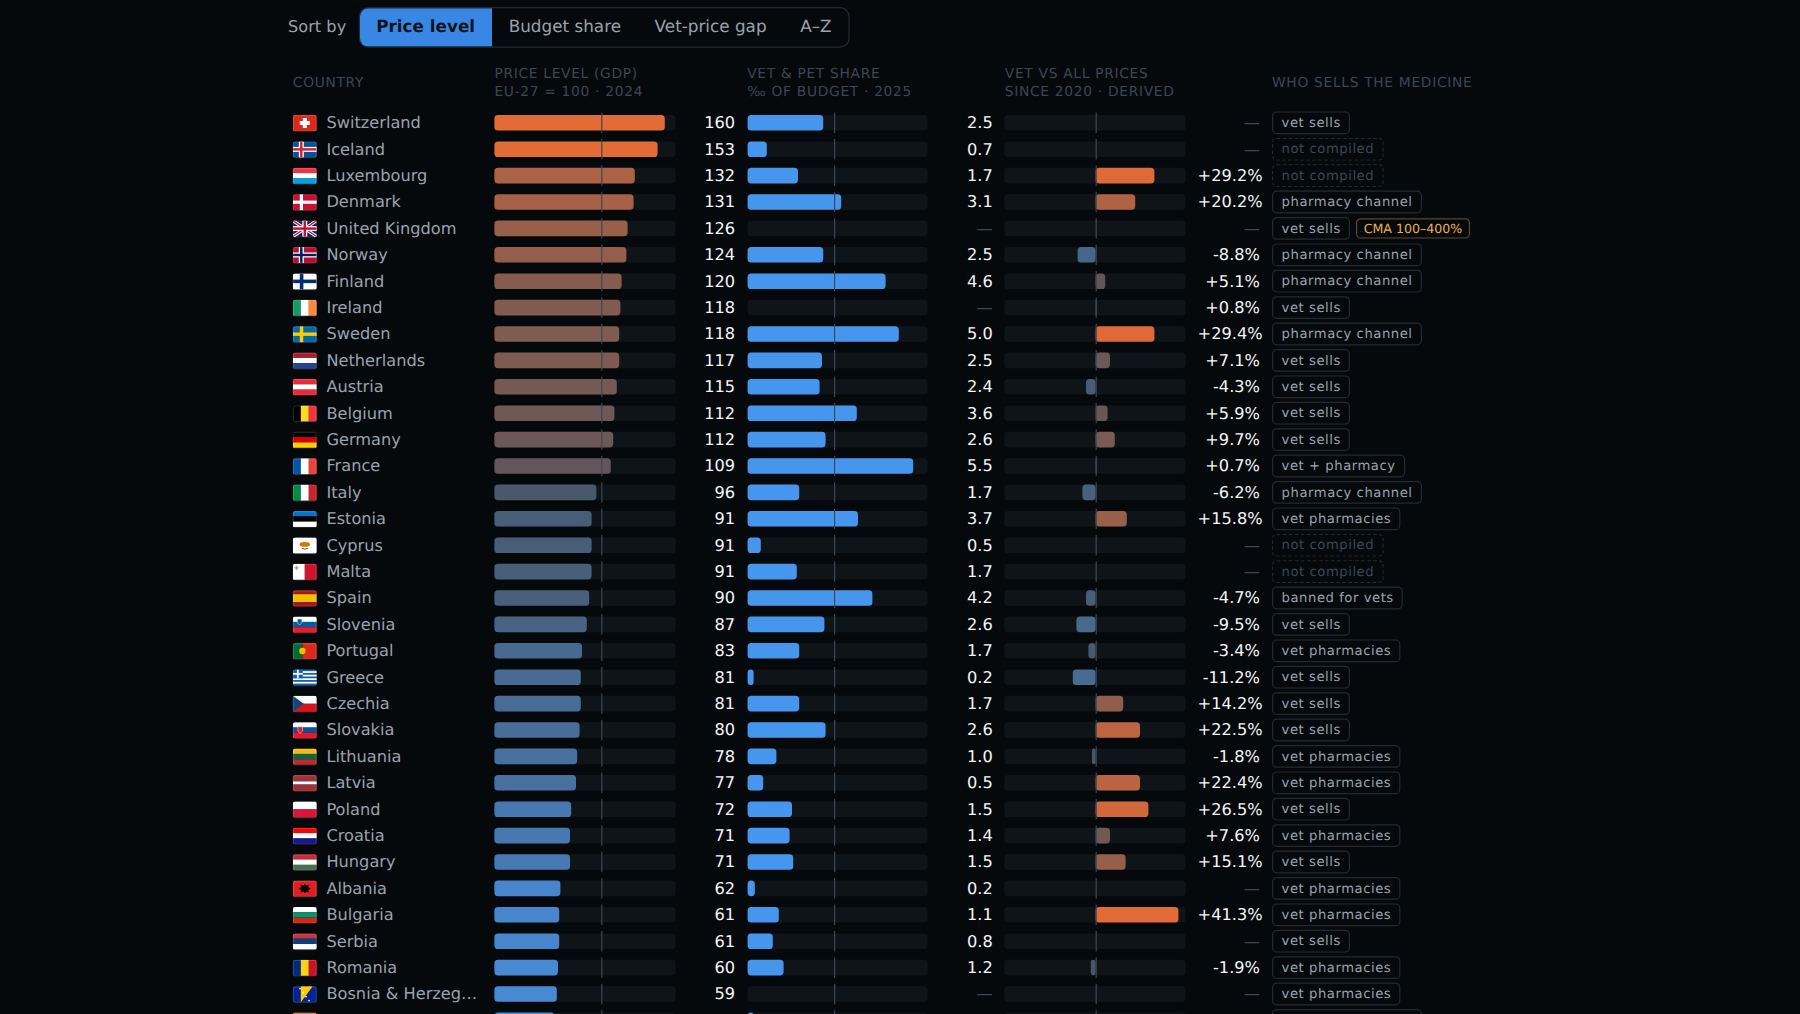
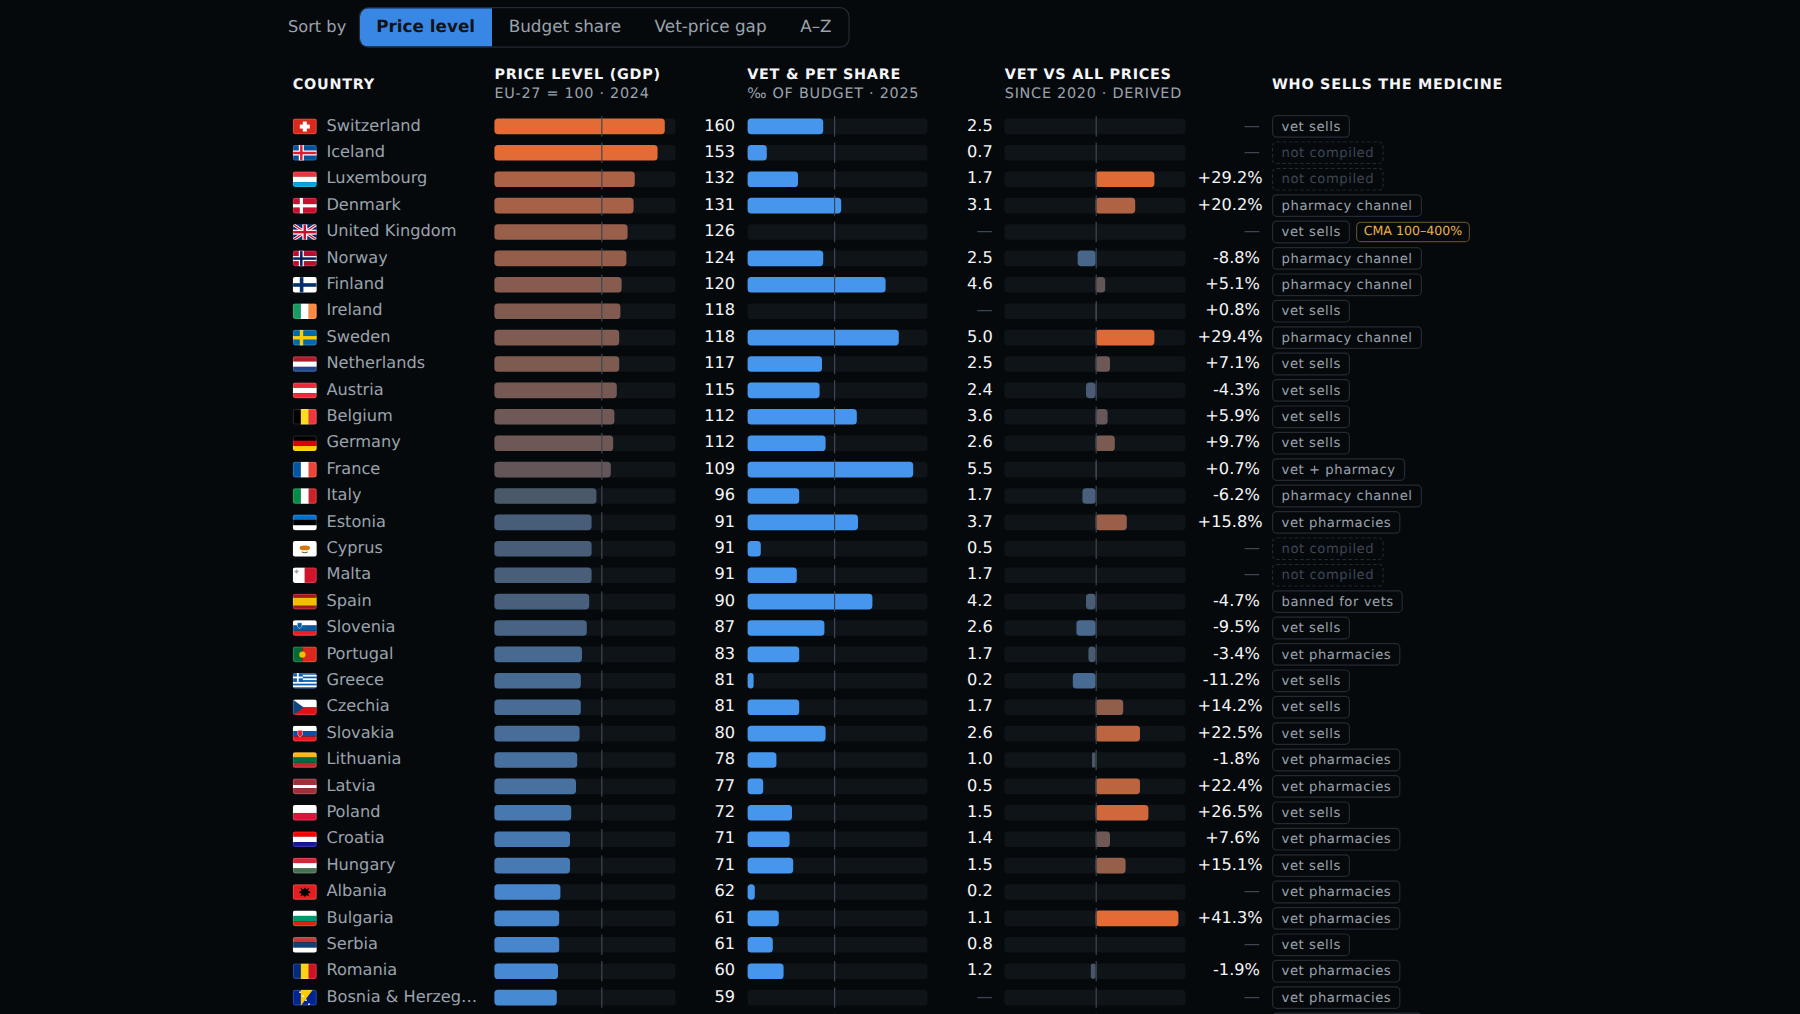
vet-story: legible column headers
Metric names now bright primary ink on their own line, units in
secondary ink beneath — the header row was set in the page's dimmest
color and unreadable. Card asset re-shot.

Claude-Session: https://claude.ai/code/session_018RYS9ec6EAoQ8s6VcckwZk

diff --git a/vet-story.html b/vet-story.html
@@ -37,9 +37,9 @@ p.sub b { color:#f4f6f8; }
 .mhead, .mrow { display:grid; align-items:center; gap:10px;
   grid-template-columns:158px minmax(90px,1fr) 40px minmax(74px,1fr) 44px
     minmax(74px,1fr) 52px 196px; }
-.mhead { color:#3d4654; font-size:11.5px; text-transform:uppercase;
-  letter-spacing:.05em; padding:0 4px 8px; line-height:1.3; }
-.mhead span:nth-child(2n) { }
+.mhead { color:#9aa3ad; font-size:12px; text-transform:uppercase;
+  letter-spacing:.05em; padding:0 4px 8px; line-height:1.35; }
+.mhead b { color:#f4f6f8; font-weight:700; display:block; }
 .mrow { font-size:13.5px; border-radius:5px; padding:1.5px 4px; }
 .mrow:hover { background:#0f1419; }
 .mrow .nm { display:flex; align-items:center; gap:8px; min-width:0;
@@ -118,11 +118,11 @@ the UK's CMA measured practice prices at <b>2–5× purchase cost
 
 <div class="scrollwrap"><div class="master">
   <div class="mhead">
-    <span>Country</span>
-    <span>Price level (GDP)<br>EU-27 = 100 · 2024</span><span></span>
-    <span>Vet &amp; pet share<br>‰ of budget · 2025</span><span></span>
-    <span>Vet vs all prices<br>since 2020 · derived</span><span></span>
-    <span>Who sells the medicine</span>
+    <span><b>Country</b></span>
+    <span><b>Price level (GDP)</b>EU-27 = 100 · 2024</span><span></span>
+    <span><b>Vet &amp; pet share</b>‰ of budget · 2025</span><span></span>
+    <span><b>Vet vs all prices</b>since 2020 · derived</span><span></span>
+    <span><b>Who sells the medicine</b></span>
   </div>
   <div id="rows"></div>
 </div></div>
